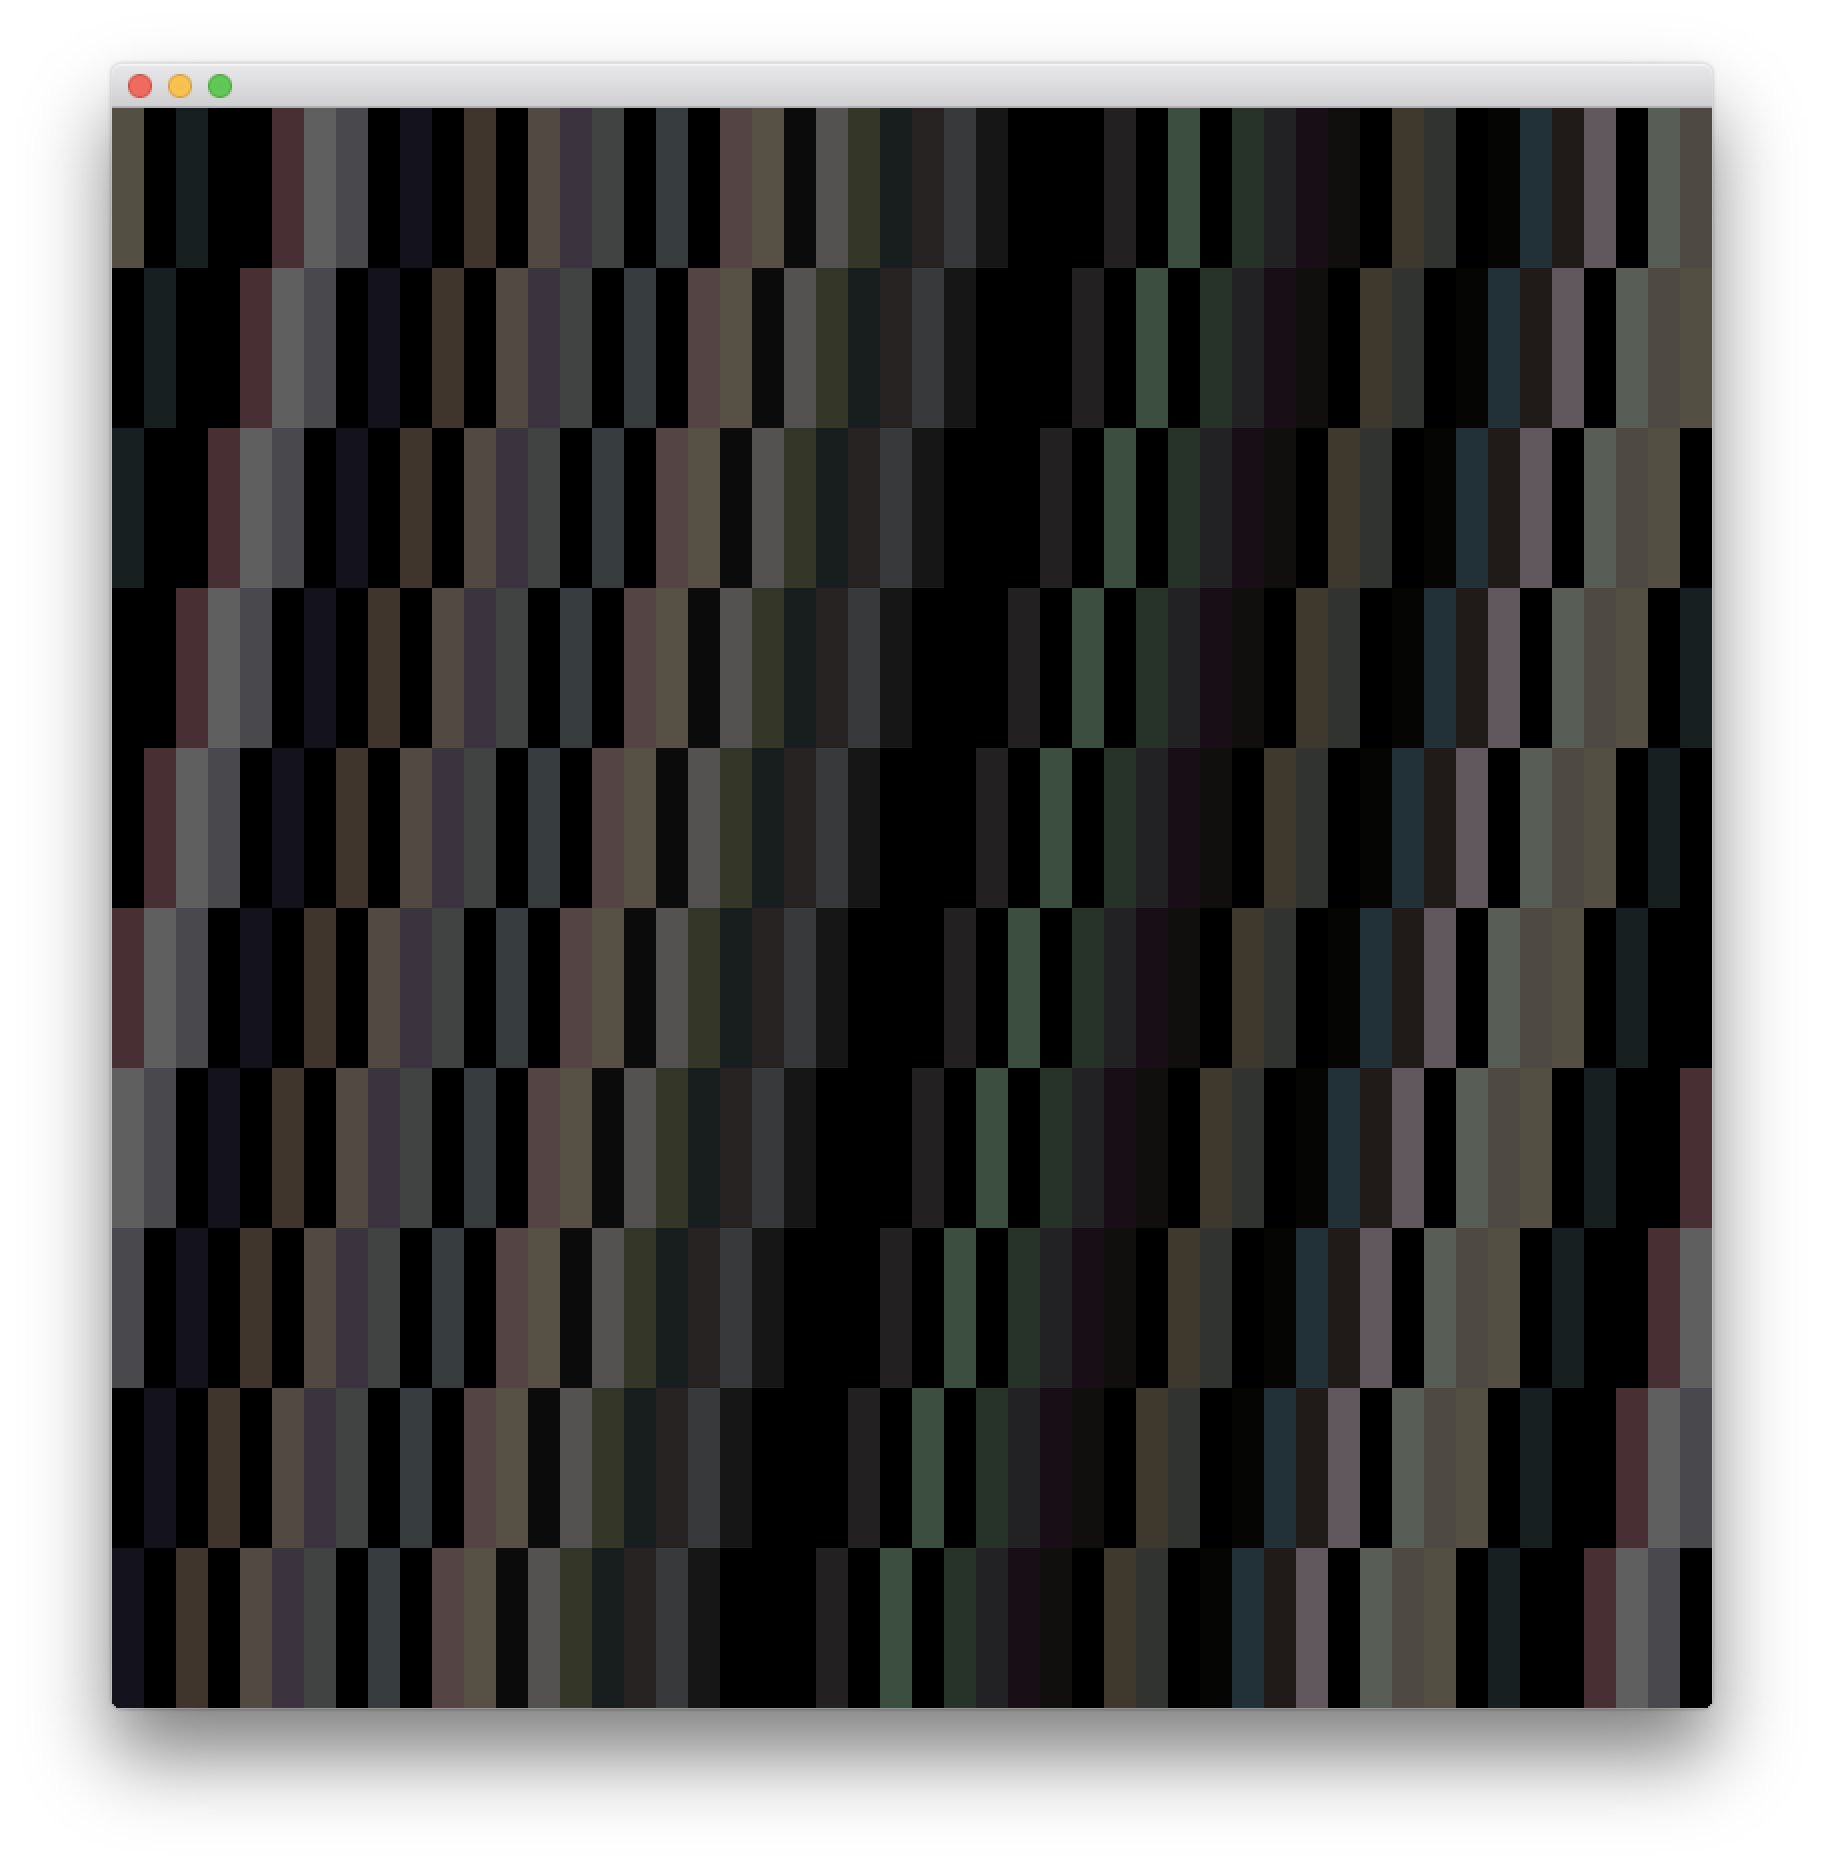
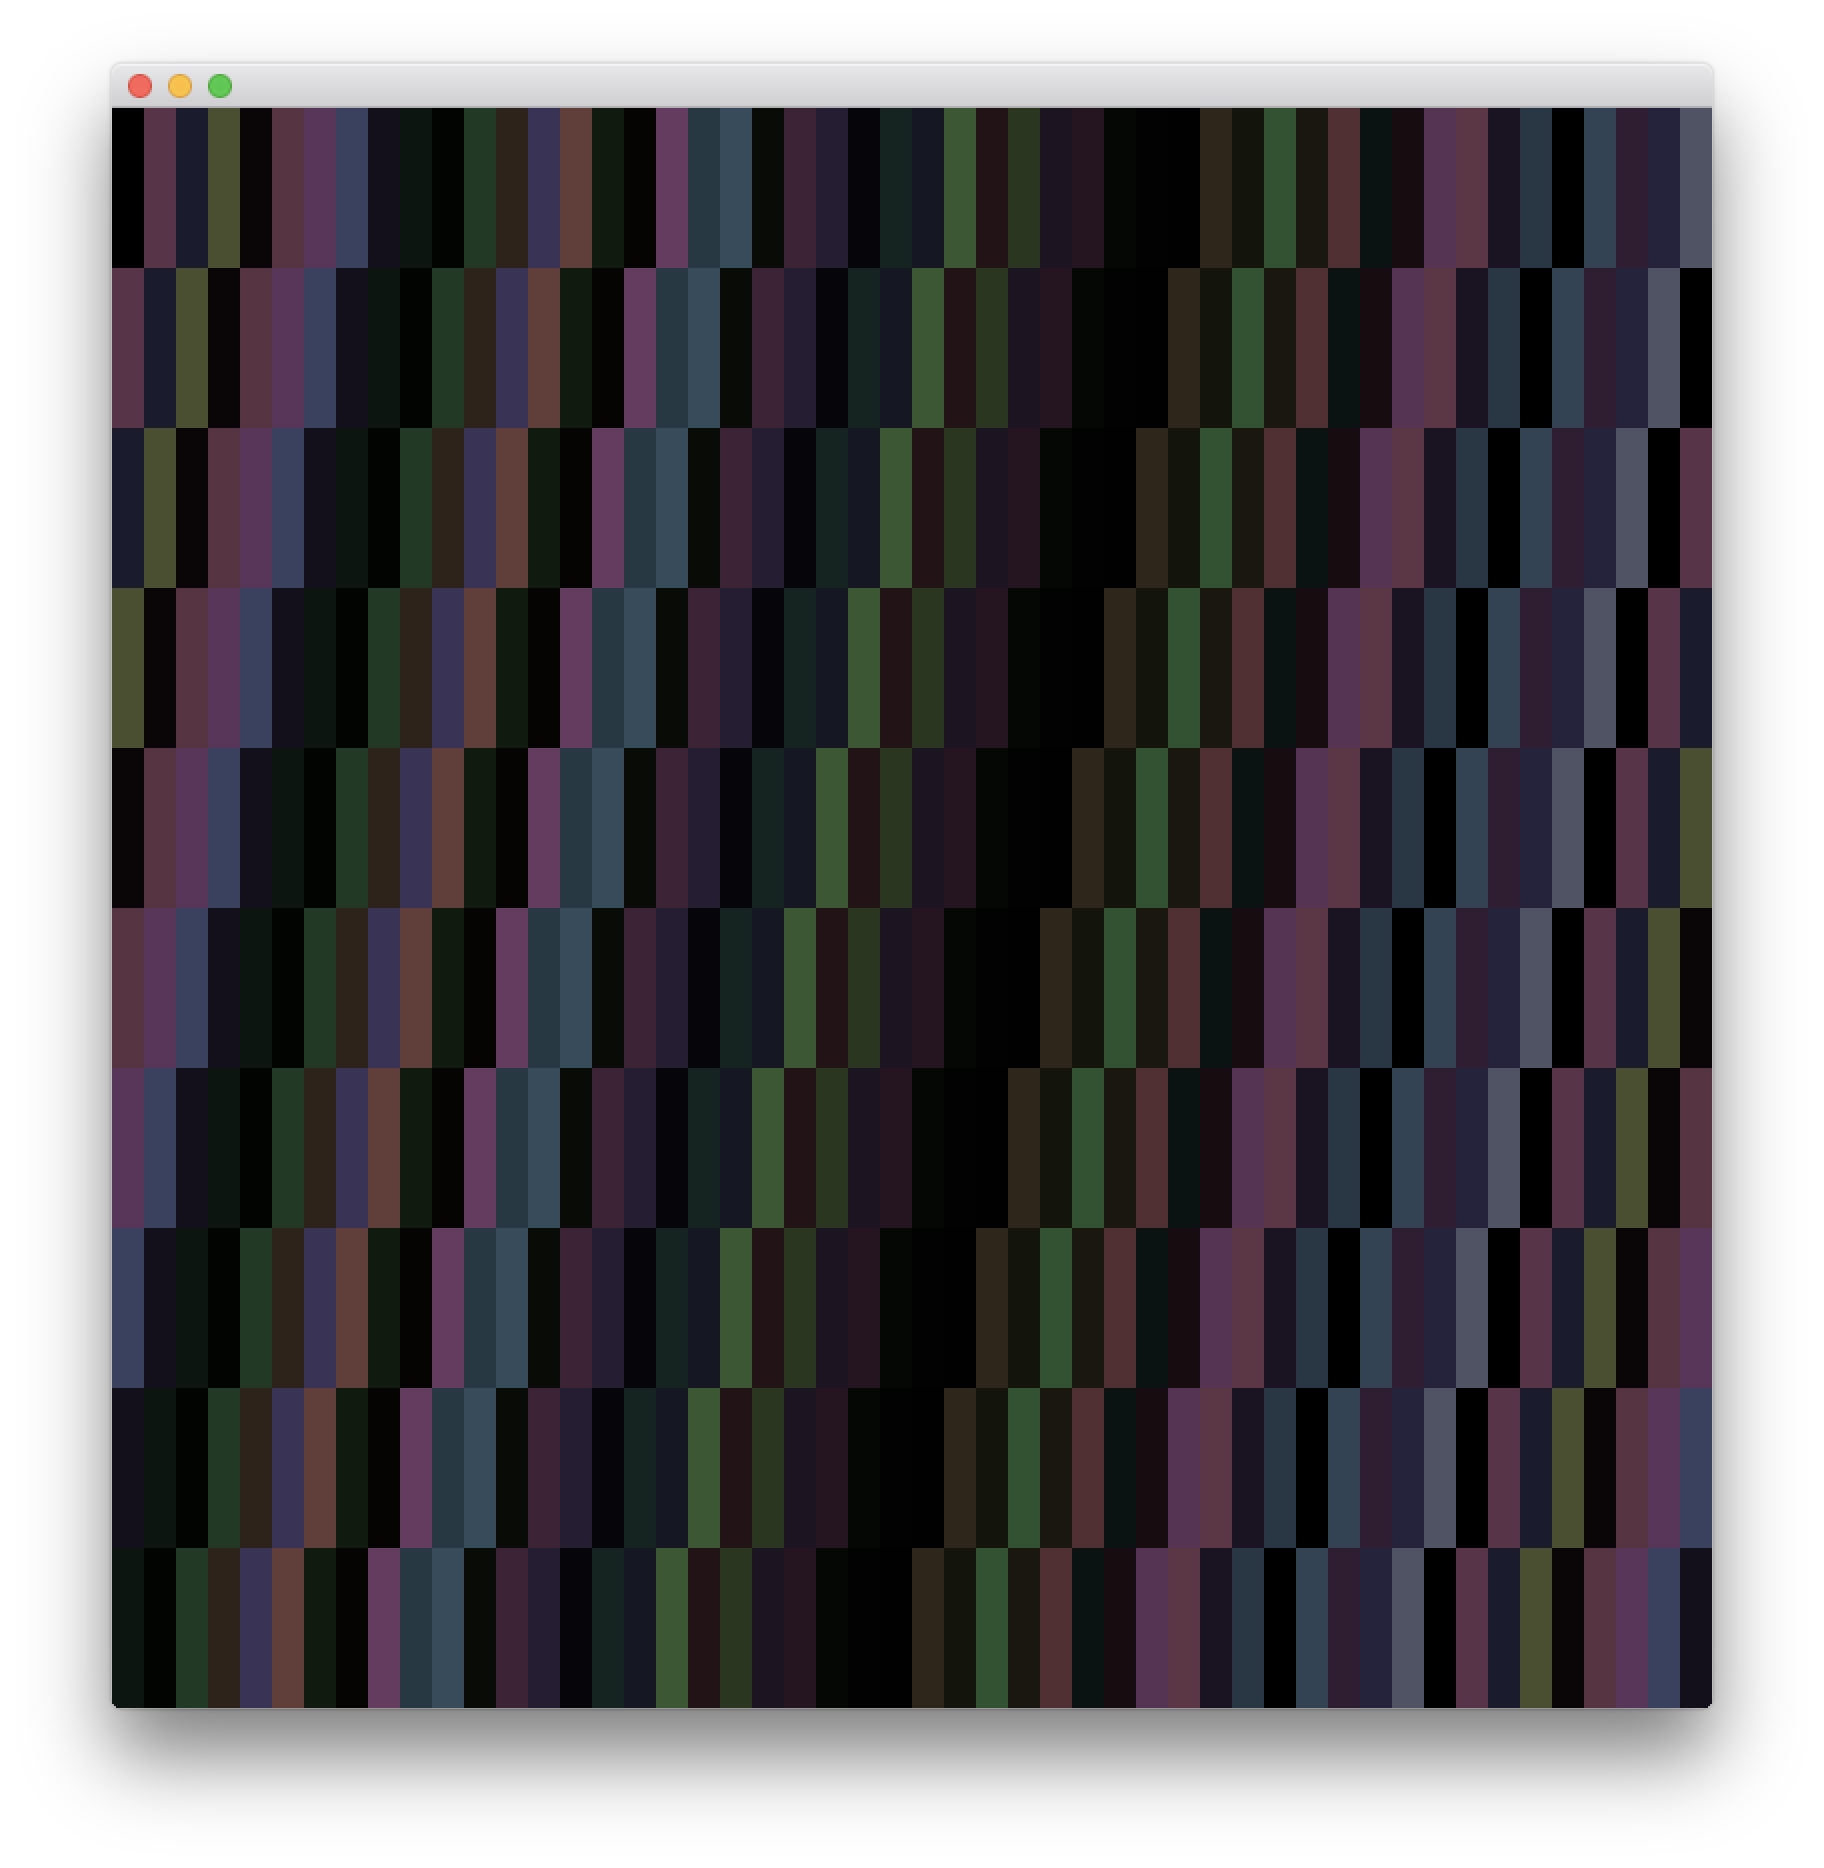
123

diff --git a/P.1 Color/P.1.2.3 Color palettes from rules/src/ofApp.cpp b/P.1 Color/P.1.2.3 Color palettes from rules/src/ofApp.cpp
@@ -13,9 +13,6 @@ int tileHeight;
 //--------------------------------------------------------------
 void ofApp::setup(){
     
-    //white bg
-    ofBackground(255);
-    
     // init with random values
     for (int i=0; i < tileCountX; i++) {
         hueValues.push_back(ofRandom(0,360));
@@ -35,6 +32,9 @@ void ofApp::update(){
 
 //--------------------------------------------------------------
 void ofApp::draw(){
+    
+    //white bg
+    ofBackground(255);
 
     
     int i = 0;
@@ -69,7 +69,7 @@ void ofApp::keyPressed(int key){
                 brightnessValues.erase(brightnessValues.begin() + i);
                 
                 //set new vals
-                hueValues.push_back(ofRandom(0,360));
+                hueValues.push_back(ofRandom(0,255));
                 saturationValues.push_back(ofRandom(0,100));
                 brightnessValues.push_back(ofRandom(0,100));
             }
@@ -83,7 +83,7 @@ void ofApp::keyPressed(int key){
                 brightnessValues.erase(brightnessValues.begin() + i);
                 
                 //set new vals
-                hueValues.push_back(ofRandom(0,360));
+                hueValues.push_back(ofRandom(0,255));
                 saturationValues.push_back(ofRandom(0,100));
                 brightnessValues.push_back(100);
             }
@@ -97,7 +97,7 @@ void ofApp::keyPressed(int key){
                 brightnessValues.erase(brightnessValues.begin() + i);
                 
                 //set new vals
-                hueValues.push_back(ofRandom(0,360));
+                hueValues.push_back(ofRandom(0,255));
                 saturationValues.push_back(100);
                 brightnessValues.push_back(ofRandom(0,100));
             }
